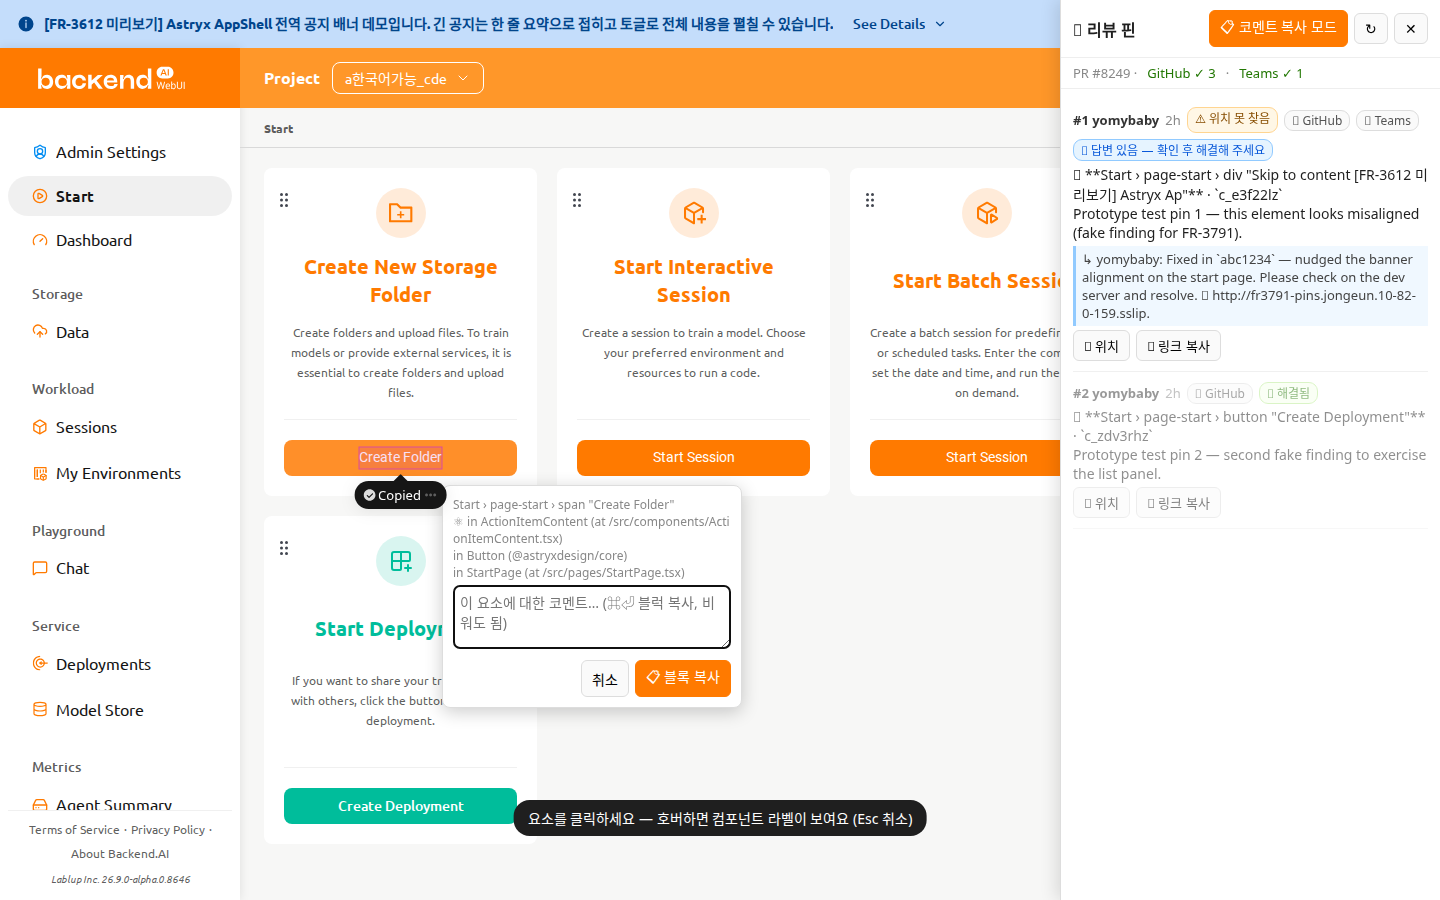
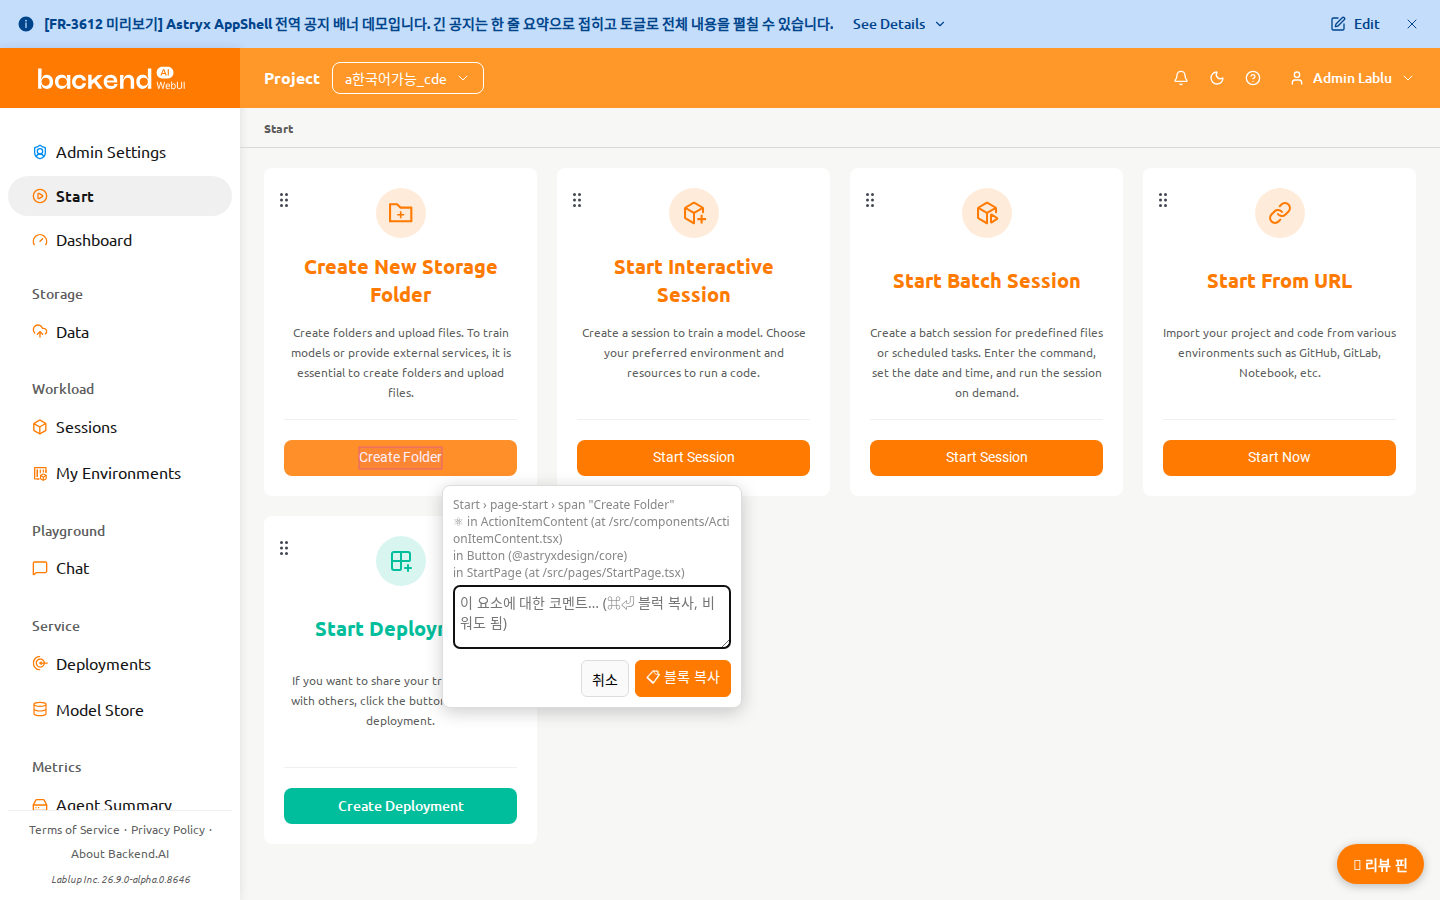
prototype(FR-3791): react-grab's activation hotkey now opens review-pick
Driver decision: ⌘⌃C (react-grab's own pick-mode hotkey) is repurposed as
the review comment-copy shortcut. The plugin's onActivate hook arms our
intercept on EVERY activation, so hotkey and button behave identically;
the plugin now registers at boot (poll for the async react-grab import)
instead of on first button click.

Claude-Session: https://claude.ai/code/session_01SBkEj3rDffVHm1gVd1Avyw

diff --git a/react/vite-plugins/reviewOverlayClient.js b/react/vite-plugins/reviewOverlayClient.js
@@ -1012,6 +1012,12 @@
         api.registerPlugin({
           name: 'bai-review-pick',
           hooks: {
+            // Driver decision: react-grab's activation hotkey (⌘⌃C) IS the
+            // review-pick shortcut — every activation arms our intercept,
+            // so grab's plain copy mode is repurposed for review comments.
+            onActivate: () => {
+              grabPicking = true;
+            },
             onElementSelect: (element) => {
               if (!grabPicking) return undefined; // plain ⌘C grab — untouched
               grabPicking = false;
@@ -1173,6 +1179,15 @@
       serverState = s;
     })
     .catch(() => {});
+
+  // react-grab loads via a dynamic import in the app — register our plugin
+  // as soon as it lands so its ⌘⌃C hotkey arms review-pick from the start.
+  {
+    let tries = 0;
+    const t = setInterval(() => {
+      if (ensureGrabPlugin() || ++tries > 40) clearInterval(t);
+    }, 500);
+  }
 
   handleFragment();
   fetchPins();
